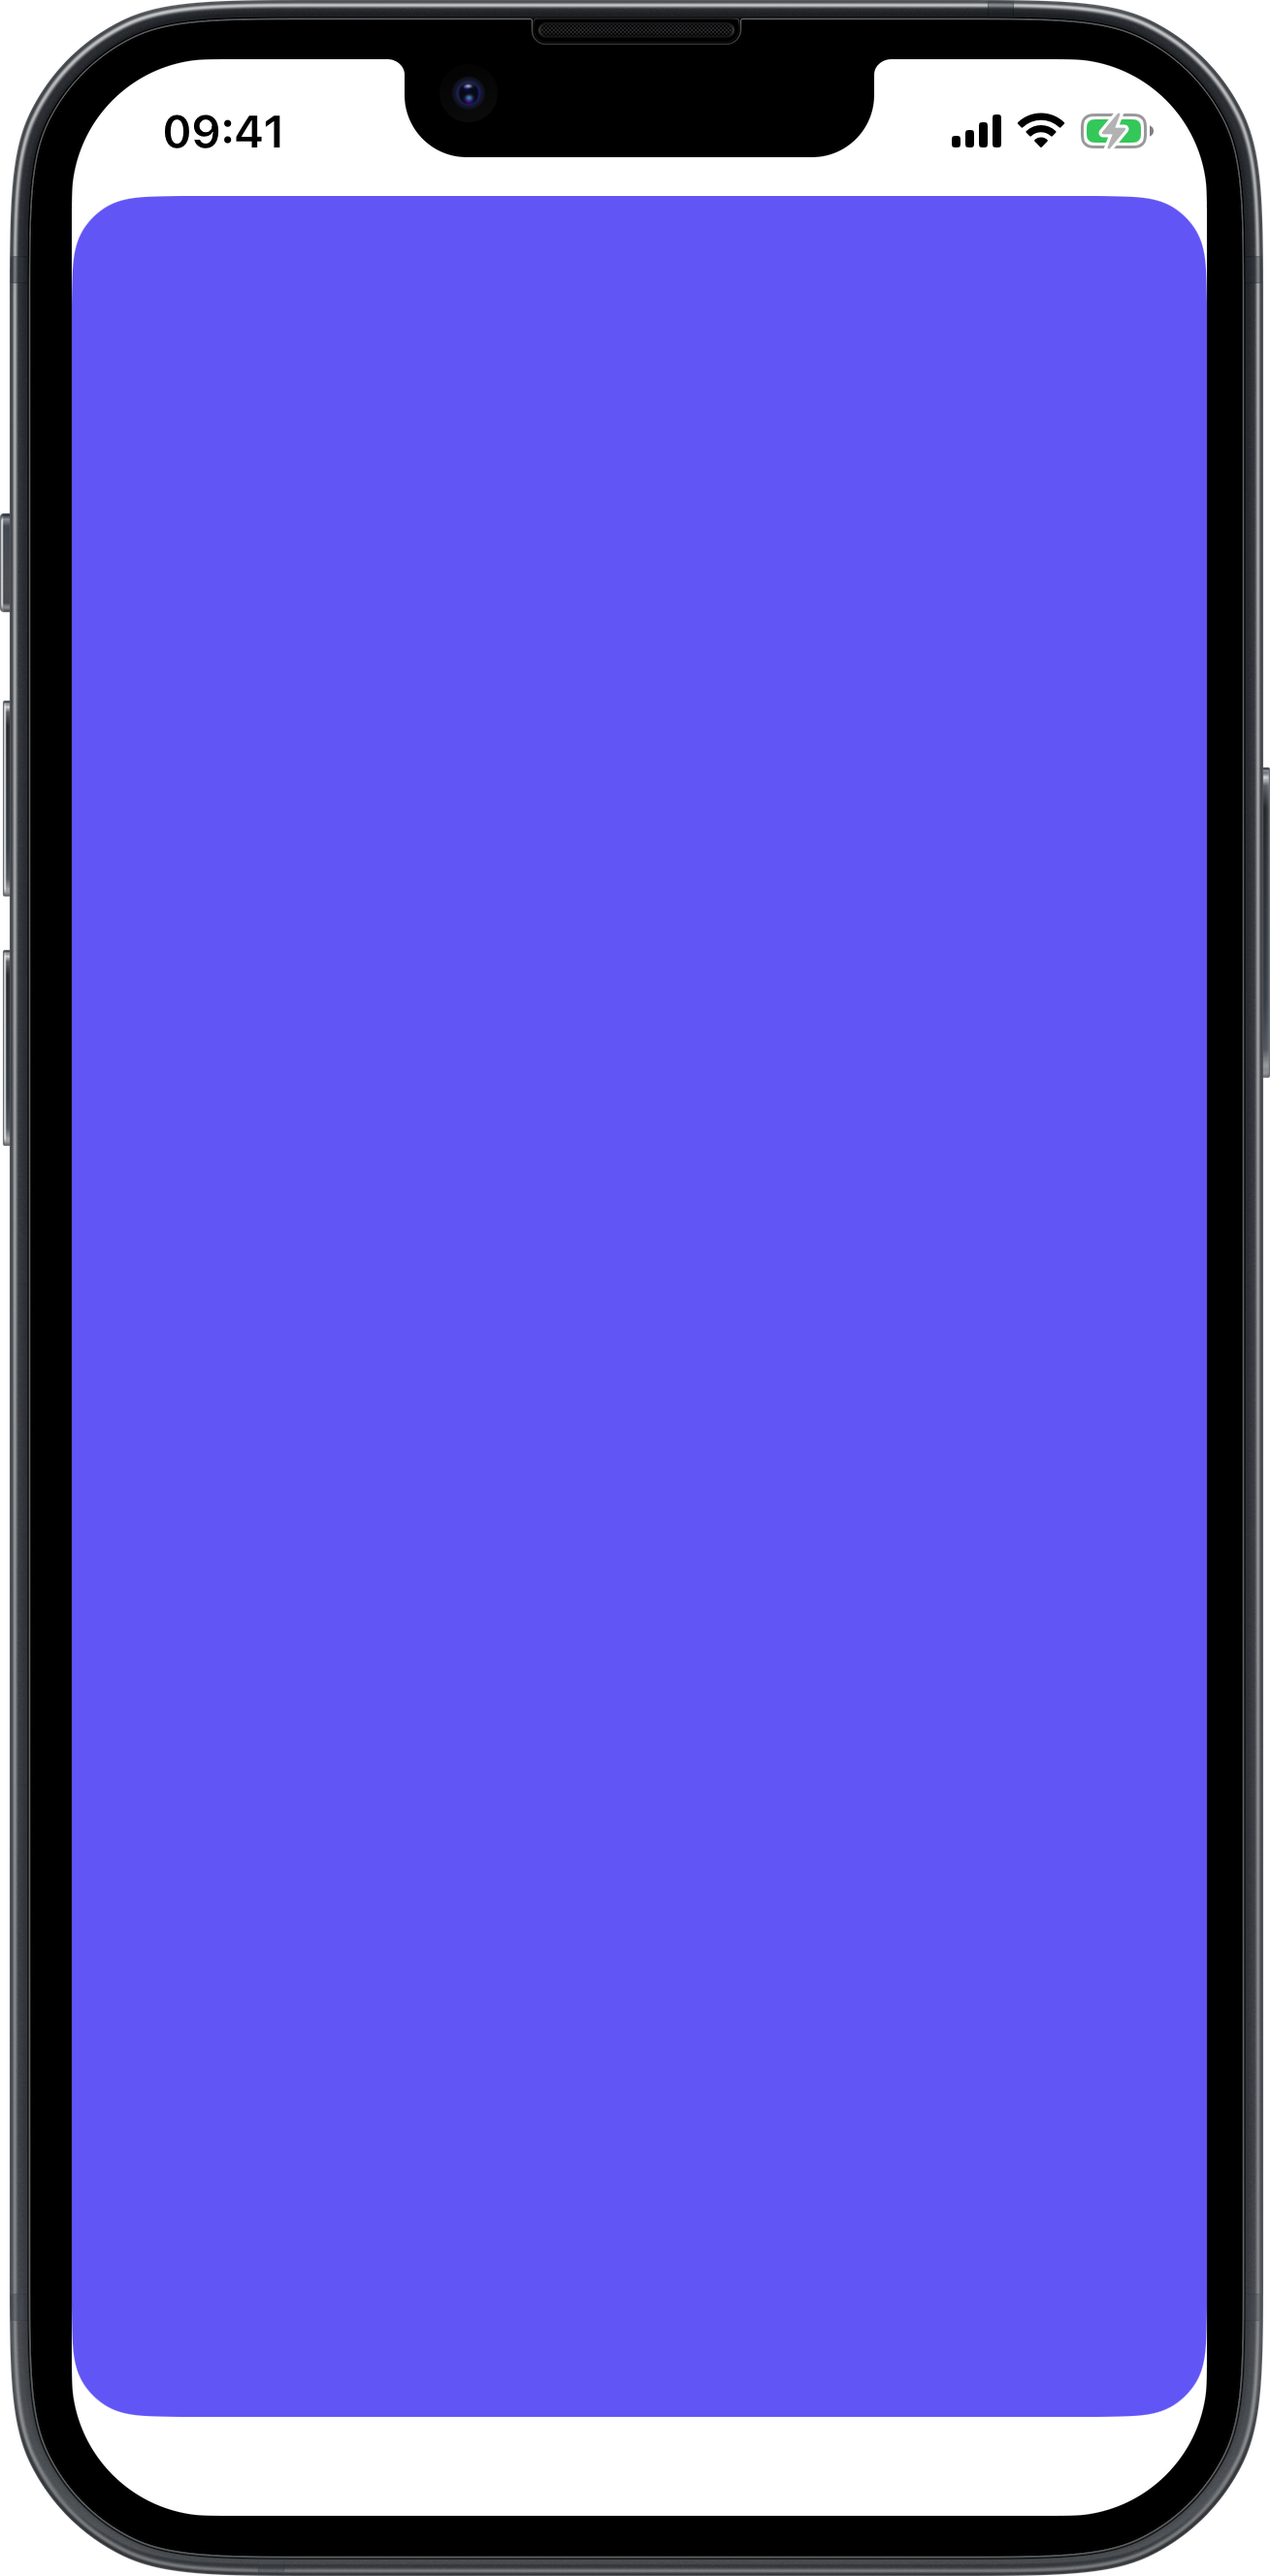
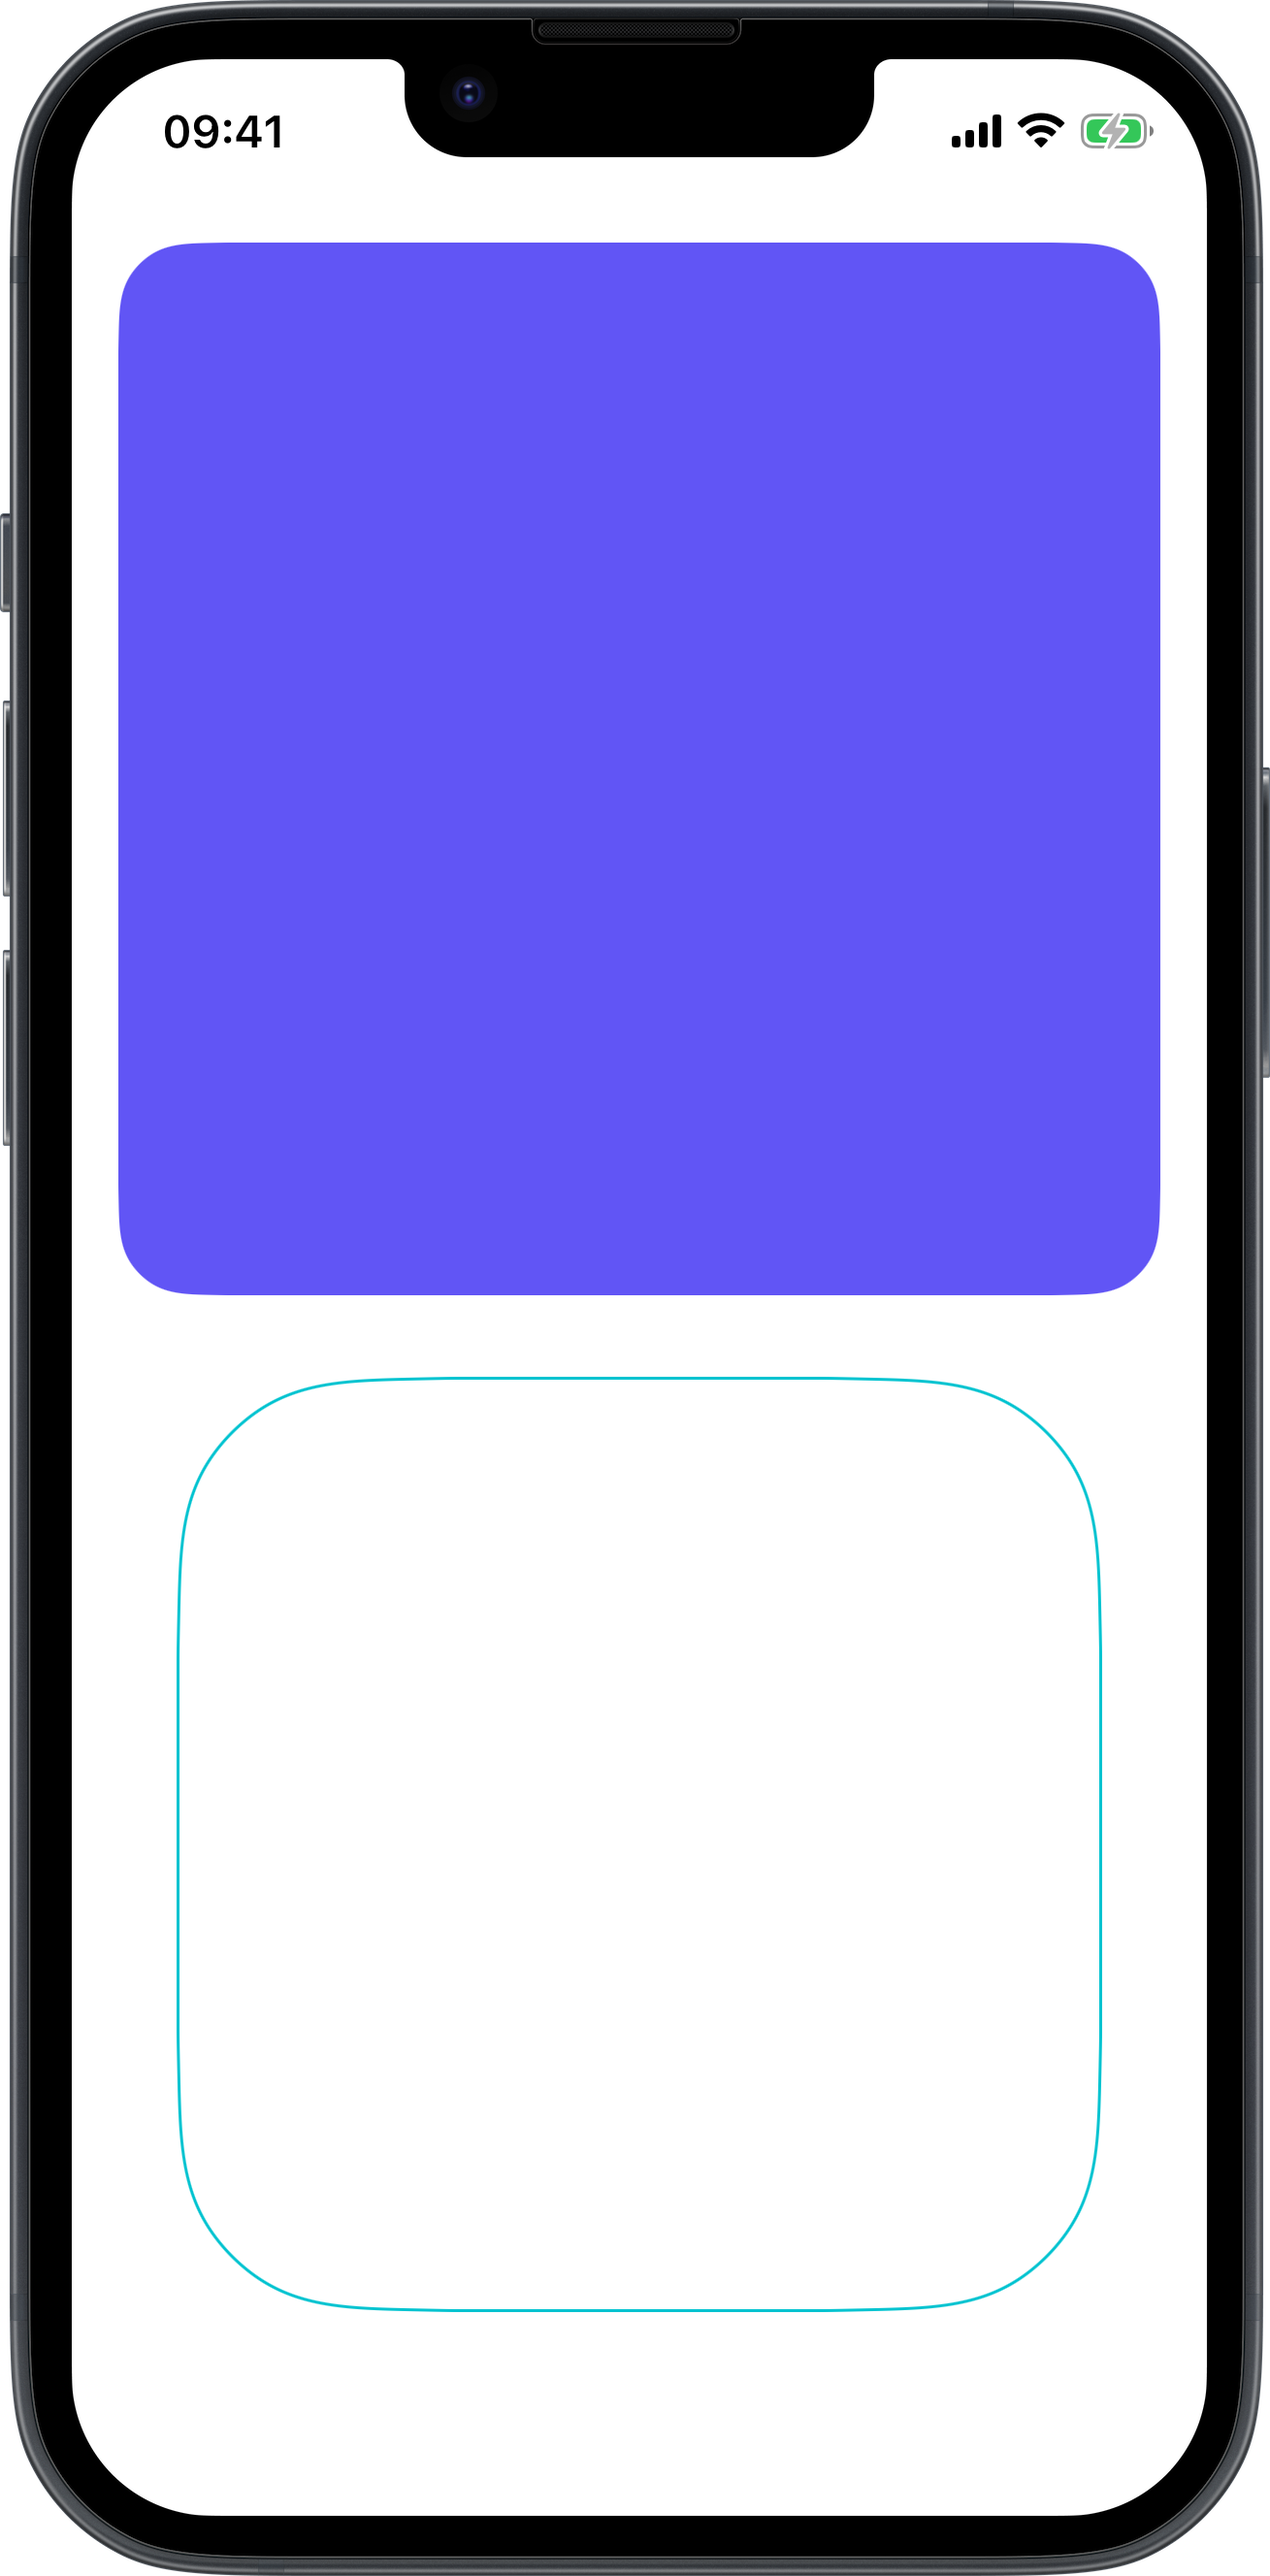
Fixed rounded rectangle

diff --git a/Views/Other/roundedrectangle.md b/Views/Other/roundedrectangle.md
@@ -13,8 +13,10 @@ A rectangle shape with rounded corners, aligned inside the frame of the view con
 
 ```xml
 <body>
-    <roundedrectangle cornerRadius="25" foregroundColor="indigo"/>
-    <roundedrectangle cornerRadius="10" stroke="lineWidth:2" foregroundColor="teal" padding="20"/>
+    <vstack padding="">
+        <roundedrectangle cornerRadius="25" foregroundColor="indigo"/>
+        <roundedrectangle cornerRadius="64" stroke="lineWidth:2" foregroundColor="teal" padding="20"/>
+    </vstack>
 </body>
 ```
 <img src="/Screenshots/Views/Other/roundedrectangle_1.png" width="250" alt="Screenshot">
